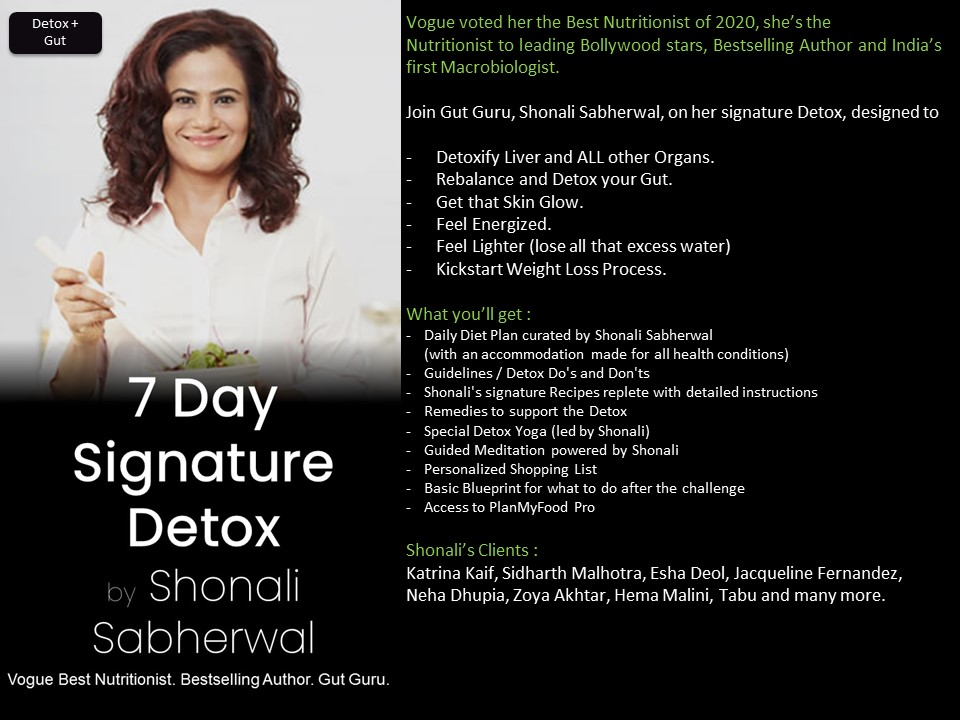
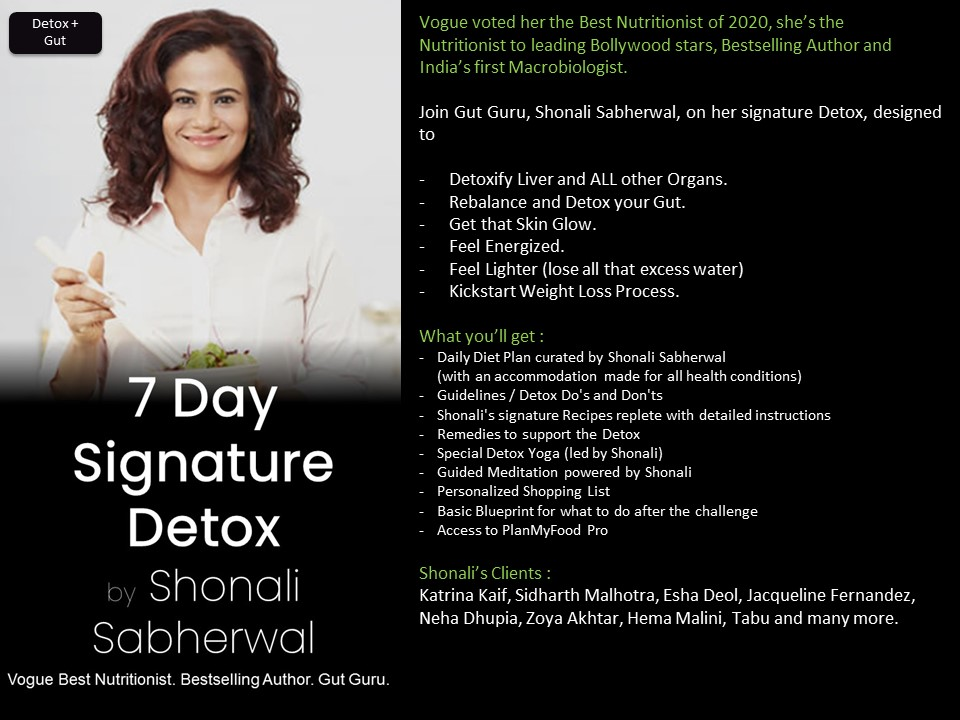
changes

Changed region(s): [[0.4062, 0.1528, 1.0, 0.8861], [0.4062, 0.0, 0.9688, 0.1222]]

diff --git a/some.css b/some.css
@@ -189,10 +189,6 @@ body {
   flex: 0.65;
 }
 
-.b video {
-  /* padding-bottom: 20%; */
-}
-
 .upper {
   /* border: 1px solid orange; */
   flex: 0.5;
@@ -509,5 +505,24 @@ footer {
     left: 55%;
     cursor: pointer;
     font-size: 20px;
+  }
+}
+
+.headerPoster {
+  max-width: 1920px;
+  max-height: 1080px;
+}
+
+.somediv img {
+  display: block;
+  margin: 0 auto;
+  height: 100%;
+  width: 100%;
+}
+
+@media only screen and (min-width: 1240px) {
+  .somediv img {
+    height: 400px;
+    width: 720px;
   }
 }

diff --git a/some.html b/some.html
@@ -92,7 +92,9 @@
           </div>
         </div>
         <div class="b">
-          <img src="listing_poster.JPG" width="100%" height="95%" alt="" />
+          <div class="somediv">
+            <img src="listing_poster.JPG" alt="" />
+          </div>
         </div>
       </div>
     </div>
